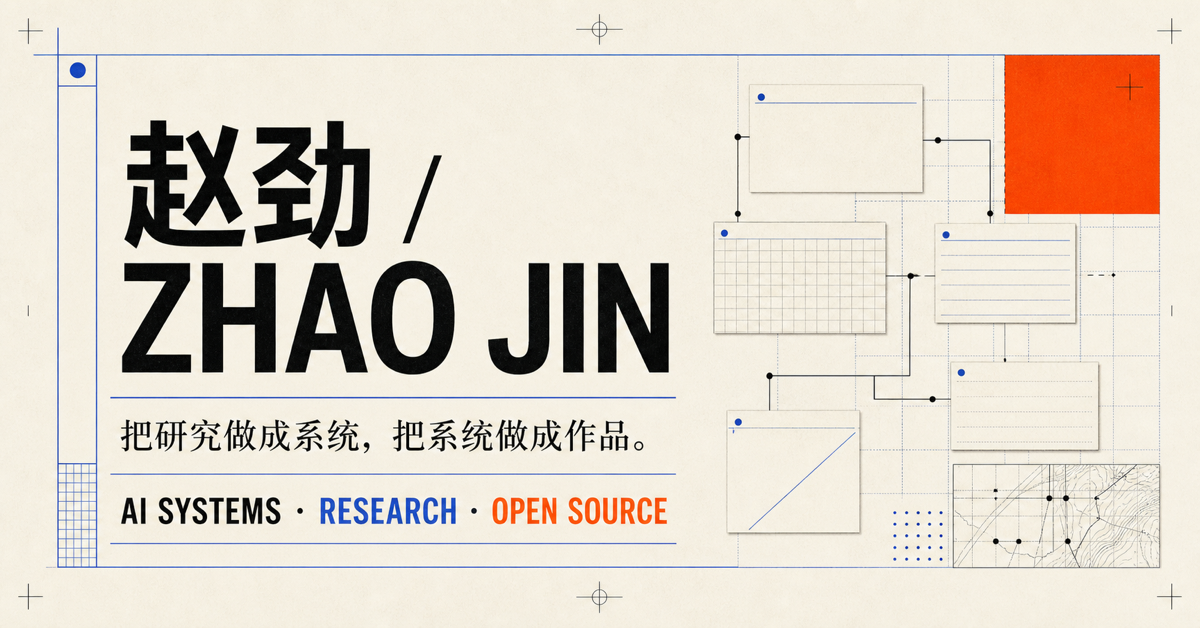
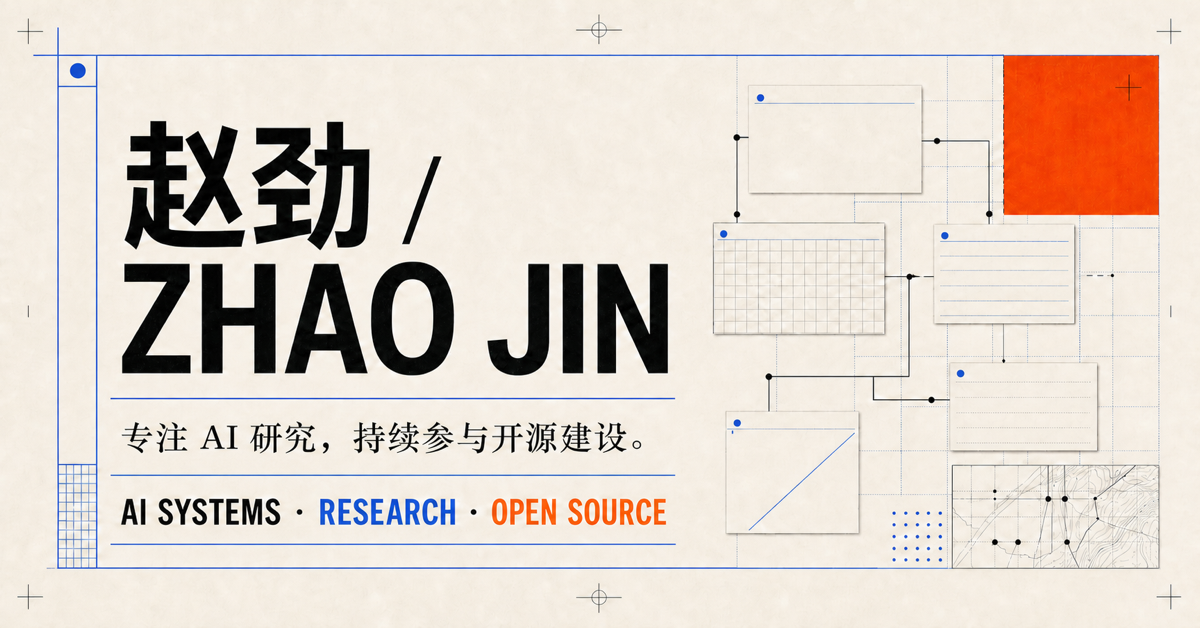
优化个人主页

diff --git a/index.html b/index.html
@@ -3,25 +3,25 @@
 <head>
   <meta charset="utf-8">
   <meta name="viewport" content="width=device-width, initial-scale=1">
-  <title>赵劲 · Nanqipro — 把研究做成系统，把系统做成作品</title>
-  <meta name="description" content="赵劲（Nanqipro）的个人主页：AI 系统、科研工程、神经影像、公开项目与教材写作。24 个正式作品与 2 个开放工作档案，从底层优化到真实应用。">
+  <title>赵劲 · Nanqipro — 专注 AI 研究，持续参与开源建设</title>
+  <meta name="description" content="赵劲（Nanqipro）的个人主页：计算机技术硕士，专注 AI 系统、科研工程与跨学科应用，持续参与研究实践与开源建设。">
   <meta name="theme-color" content="#f2efe6">
   <meta name="color-scheme" content="light">
 
   <meta property="og:type" content="website">
   <meta property="og:locale" content="zh_CN">
   <meta property="og:site_name" content="赵劲 · Nanqipro">
-  <meta property="og:title" content="赵劲 · 把研究做成系统，把系统做成作品">
-  <meta property="og:description" content="AI Systems · Research · Public Work。24 个正式作品与 2 个开放工作档案，一张持续生长的研究与作品地图。">
+  <meta property="og:title" content="赵劲 · 专注 AI 研究，持续参与开源建设">
+  <meta property="og:description" content="AI Systems · Research · Public Work。通过代码、研究、教材与公开作品持续参与 AI 技术实践。">
   <meta property="og:url" content="https://nanqipro.github.io/">
   <meta property="og:image" content="https://nanqipro.github.io/og.png">
   <meta property="og:image:width" content="1200">
   <meta property="og:image:height" content="628">
-  <meta property="og:image:alt" content="赵劲个人主页分享封面：把研究做成系统，把系统做成作品">
+  <meta property="og:image:alt" content="赵劲个人主页分享封面：专注 AI 研究，持续参与开源建设">
 
   <meta name="twitter:card" content="summary_large_image">
   <meta name="twitter:title" content="赵劲 · Nanqipro">
-  <meta name="twitter:description" content="把研究做成系统，把系统做成作品。">
+  <meta name="twitter:description" content="专注 AI 研究，持续参与开源建设。">
   <meta name="twitter:image" content="https://nanqipro.github.io/og.png">
 
   <link rel="stylesheet" href="assets/styles.css">
@@ -56,13 +56,13 @@
         <div class="hero-copy">
           <p class="eyebrow"><span>01</span> RESEARCH-DRIVEN ENGINEER</p>
           <h1 id="hero-title">
-            <span>把研究做成系统，</span>
-            <span>把系统做成作品。</span>
+            <span>专注 AI 研究，</span>
+            <span>持续参与开源建设。</span>
           </h1>
           <p class="hero-lede">
-            我是赵劲，也用 <strong>Nanqipro</strong> 这个名字写代码。
-            计算机技术硕士、AI 系统研究与工程实践者、教材编写者。
-            我喜欢接住陌生问题，把它拆到可以验证，再装回一个真正能跑的系统。
+            我是赵劲，也以 <strong>Nanqipro</strong> 参与开源协作。
+            计算机技术硕士，主要关注 AI 系统、科研工程与跨学科应用，
+            并通过代码、研究与教材写作持续输出可复用成果。
           </p>
           <div class="hero-actions">
             <a class="button button-dark" href="#atlas">浏览 24 个作品 <span>↓</span></a>

diff --git a/README.md b/README.md
@@ -2,7 +2,7 @@
 
 赵劲（Nanqipro）的个人主页与公开作品索引。
 
-主页以“把研究做成系统，把系统做成作品”为叙事核心，整理 24 个正式公开作品和 2 个开放工作档案，覆盖：
+主页以“专注 AI 研究，持续参与开源建设”为核心表达，整理 24 个正式公开作品和 2 个开放工作档案，覆盖：
 
 - AI 系统、性能与可信计算
 - 神经科学与生物医学智能
